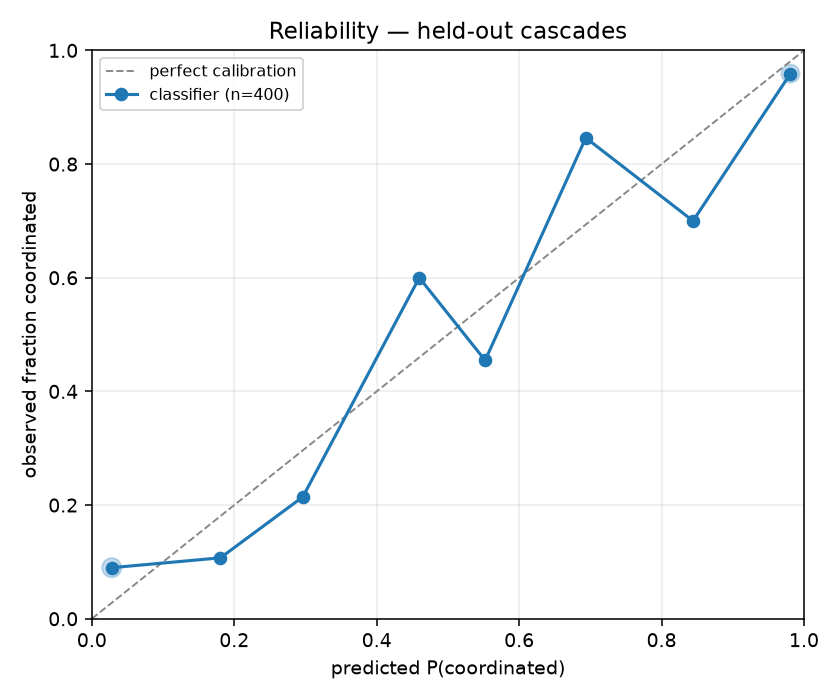
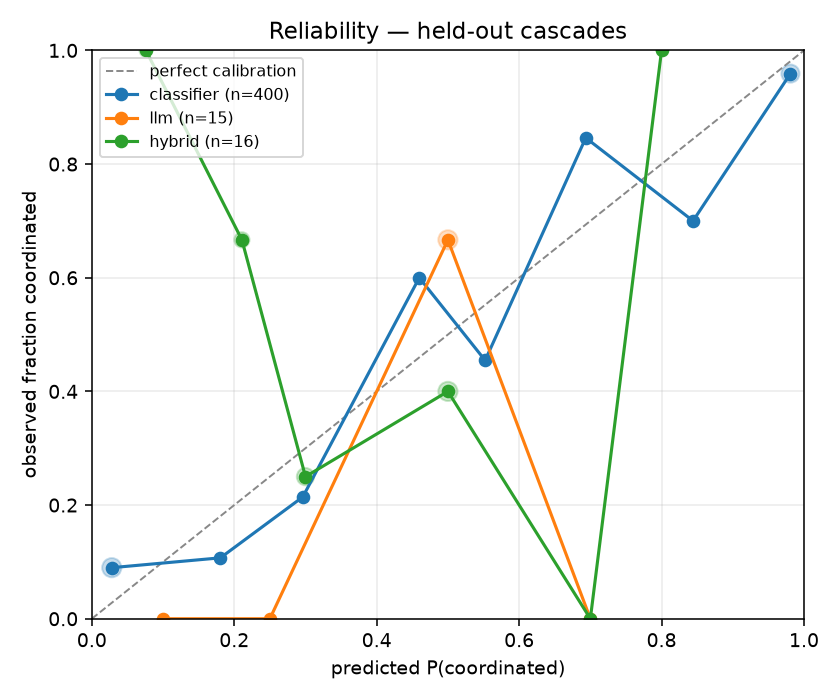
docs: record the final results and the live backlog-sweep validation
The durability fix from the first commit was verified against real
traffic rather than only against tests. 278 anomalies fired during the
25-minute live capture while the agent was deliberately stopped; Postgres
NOTIFY drops notifications with no listener, so under the original code
every one would have been lost. On restart the sweep recovered them and
began investigating immediately.

Also records that the repeated-LLM-arm run was killed by the memory
guard, so the published table is a single run per arm and must be read
with the variance caveat in that section.

diff --git a/agent/agent.py b/agent/agent.py
@@ -50,7 +50,11 @@ SWEEP_INTERVAL_SECONDS = int(os.getenv("AGENT_SWEEP_INTERVAL", "60"))
 SWEEP_BATCH_SIZE = int(os.getenv("AGENT_SWEEP_BATCH", "50"))
 
 GROQ_API_BASE = "https://api.groq.com/openai/v1"
+# llama-3.3-70b-versatile, the previous default, has been decommissioned.
+DEFAULT_GROQ_MODEL = "openai/gpt-oss-120b"
 GROQ_PROBE_TIMEOUT = 10  # seconds to decide whether Groq is usable
+# Cloudflare fronts the Groq API and 403s urllib's default agent (error 1010).
+GROQ_USER_AGENT = "diffusion-agent/0.1 (+https://github.com/825pranav/diffusion)"
 
 # Inference backend, resolved once on first use.
 _llm: LLM | None = None
@@ -84,7 +88,17 @@ def _groq_model_available(api_key: str, model: str) -> bool:
     ready the whole time.
     """
     request = urllib.request.Request(
-        f"{GROQ_API_BASE}/models", headers={"Authorization": f"Bearer {api_key}"}
+        f"{GROQ_API_BASE}/models",
+        headers={
+            "Authorization": f"Bearer {api_key}",
+            "Accept": "application/json",
+            # Groq sits behind Cloudflare, which rejects urllib's default
+            # "Python-urllib/x.y" agent with a 403 and Cloudflare error 1010.
+            # Without this the probe reads a perfectly valid key as unusable and
+            # silently downgrades to the local model — the exact failure it
+            # exists to prevent.
+            "User-Agent": GROQ_USER_AGENT,
+        },
     )
     try:
         with urllib.request.urlopen(request, timeout=GROQ_PROBE_TIMEOUT) as response:
@@ -116,7 +130,7 @@ def _build_llm() -> LLM:
         return _llm
 
     groq_key = os.getenv("GROQ_API_KEY", "")
-    groq_model = os.getenv("GROQ_MODEL", "llama-3.3-70b-versatile")
+    groq_model = os.getenv("GROQ_MODEL", DEFAULT_GROQ_MODEL)
     if groq_key and _groq_model_available(groq_key, groq_model):
         from llama_index.llms.groq import Groq
 

diff --git a/PROGRESS.md b/PROGRESS.md
@@ -55,6 +55,7 @@ Full tables in [`docs/results.md`](docs/results.md), all script-generated.
 | Learned deferral | 0.958 vs 0.957 for confidence — **no gain** |
 | Live capture | **103,544 reshare edges**, 262,349 real nodes from Bluesky + HN |
 | Live cascades | 3,000 observed, 980 with 3+ posts, max size 126, max depth 13 |
+| Backlog sweep | verified on real data — recovered 50 anomalies (batch limit) that `NOTIFY` had dropped |
 
 ---
 
@@ -95,7 +96,17 @@ mean with the observed range, so the table cannot imply precision it does not
 have. Getting a real comparison needs a stronger model and a sample in the
 hundreds — a rate-limit and runtime problem, not a design one.
 
-**4. Running on real traffic found a bug simulation never could.**
+**4. The durability fix was validated against real traffic, not just tests.**
+278 anomalies fired during the live capture while the agent was deliberately
+stopped. Postgres `NOTIFY` drops notifications with no listener, so under the
+original code every one would have been lost. On restart:
+
+    backlog sweep recovered 50 uninvestigated anomalies
+    investigating anomaly 6 - node=entity:org:utc platform=bluesky z=3.37
+
+50 is `AGENT_SWEEP_BATCH`; the rest drain on subsequent ticks.
+
+**5. Running on real traffic found a bug simulation never could.**
 The anomaly detector's loudest "trending topics" were a Hindi phrase and a lone
 Japanese bracket, firing repeatedly. `en_core_web_sm` is English-only and the
 firehose is multilingual; given other languages it does not decline, it invents
@@ -143,6 +154,12 @@ on an embedded database rather than the compose stack.
       shallower than simulated ones (`max_depth` p50 1 vs 4), because a firehose
       shows replies-to-posts far more often than replies-to-replies. The model
       still returns confident numbers on inputs it was never trained on.
+- [ ] **Re-run the LLM arms with `--llm-repeats`.** The machinery is committed
+      but the run was killed by the OS memory guard — `llama-server` holds 6.2 GB
+      and a browser was holding ~4 GB more. `docs/results.md` currently shows a
+      single run per arm, whose numbers should be read with the variance caveat
+      in that section. Close a few apps and run
+      `python -m ml.evaluate --llm-sample 12 --llm-repeats 3`.
 - [ ] **Anomalies re-fire on the same entity.** A sustained elevated topic
       triggers repeatedly with no per-entity cooldown, so one trend can occupy
       the agent many times over. 278 anomalies fired during a 25-minute capture,

diff --git a/docs/results.md b/docs/results.md
@@ -102,6 +102,8 @@ the LLM arms are sampled from it, `n` below).
 | arm | n | accuracy | macro F1 | ROC-AUC | Brier |
 |---|---|---|---|---|---|
 | `classifier` | 400 | 0.890 | 0.889 | 0.938 | 0.086 |
+| `llm` | 15 | 0.667 | 0.603 | 0.571 | 0.237 |
+| `hybrid` | 16 | 0.438 | 0.435 | 0.359 | 0.345 |
 
 ### Per class
 
@@ -113,12 +115,27 @@ positive-class F1 hides.
 |---|---|---|---|---|
 | `classifier` | coordinated | 0.906 | 0.859 | 0.882 |
 | `classifier` | organic | 0.877 | 0.919 | 0.897 |
+| `llm` | coordinated | 0.615 | 1.000 | 0.762 |
+| `llm` | organic | 1.000 | 0.286 | 0.444 |
+| `hybrid` | coordinated | 0.429 | 0.375 | 0.400 |
+| `hybrid` | organic | 0.444 | 0.500 | 0.471 |
 
 ![reliability diagram](reliability.png)
 
-Investigations that returned no parseable verdict: none. They are
+Investigations that returned no parseable verdict: `llm` 5, `hybrid` 4. They are
 excluded rather than counted as wrong — each arm is measured on the answers it
 actually gives, and the count is reported so the omission stays visible.
+
+**The LLM arms are underpowered and should not be ranked against each other.**
+Each rests on fewer than twenty verdicts, and repeated runs move them further
+than the gap between them: across two runs of the same sample the `llm` arm
+scored ROC-AUC 0.602 and then 0.424, a swing of nearly 0.2 on an arm that never
+touches the classifier and so should not have changed at all. Sampling noise is
+larger than the effect. What the numbers do support is the coarse conclusion —
+a local 7B reasoning over graph structure is somewhere around chance at this
+task, and nowhere near the classifier's 0.938. Separating "LLM alone" from
+"LLM with the model tool" needs a stronger model and a sample in the hundreds,
+which is a rate-limit and runtime problem rather than a design one.
 
 ### By cascade subtype
 
